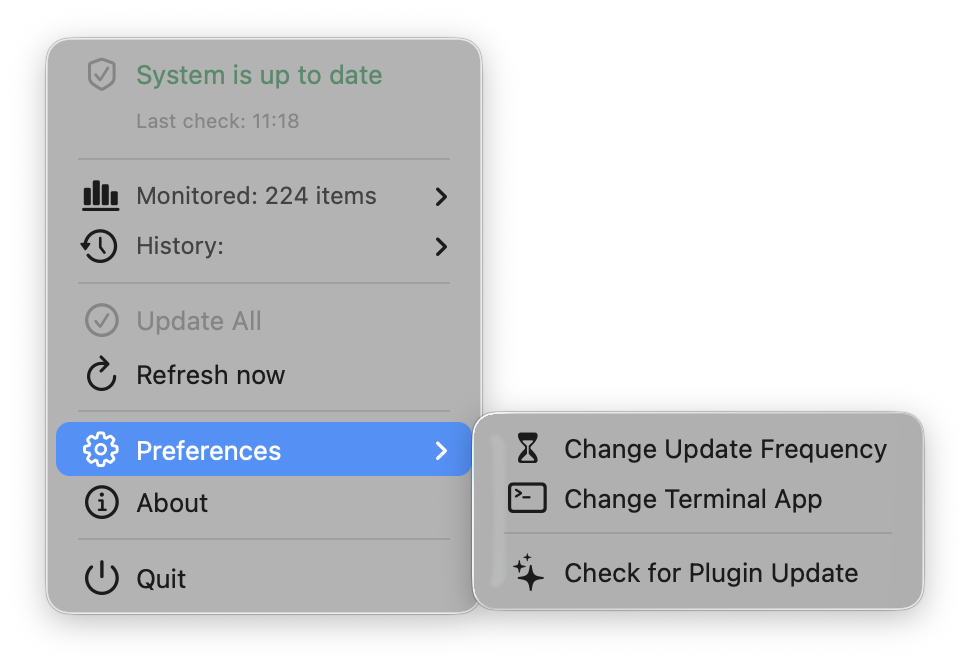
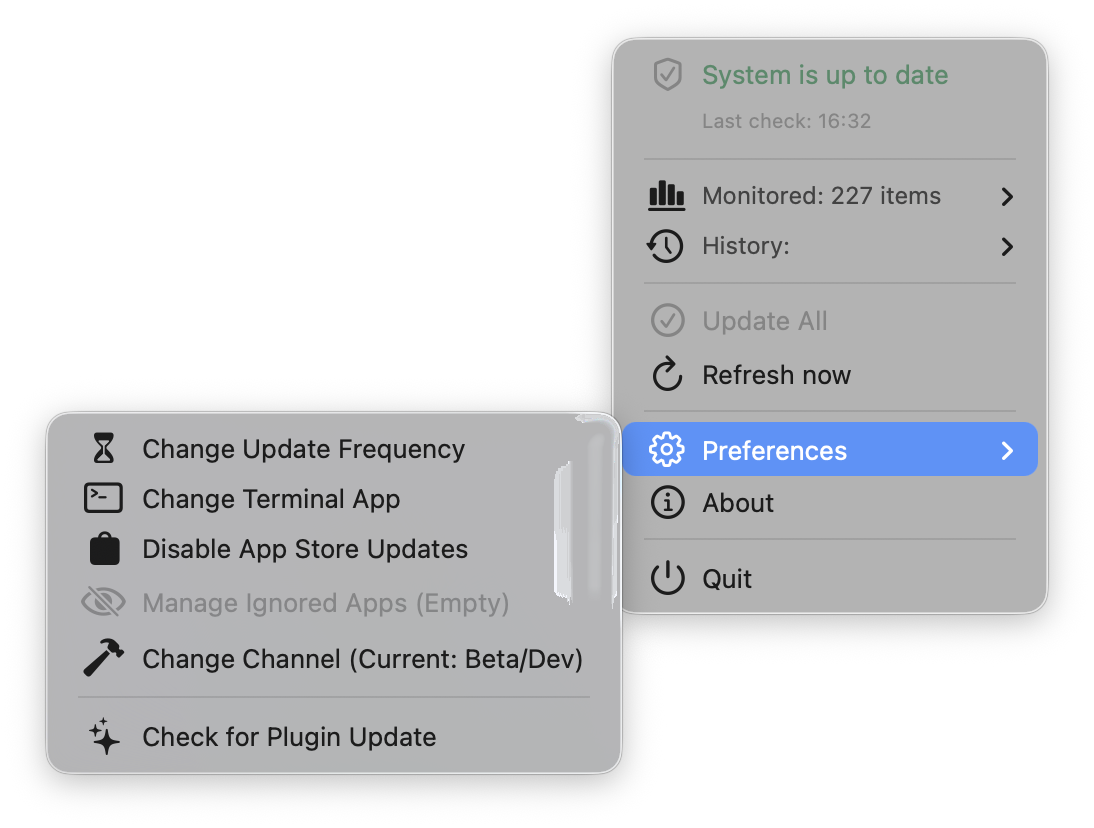
chore: bump version to 1.4.0 and minor documentation updates

diff --git a/README.md b/README.md
@@ -2,7 +2,7 @@
 
 [![License](https://img.shields.io/badge/license-MIT-blue)](LICENSE)
 [![Last Commit](https://img.shields.io/gitea/last-commit/pr-fuzzylogic/mac_software_updater?gitea_url=https%3A%2F%2Fcodeberg.org&label=last%20update&color=blue)](https://codeberg.org/pr-fuzzylogic/mac_software_updater/commits/branch/main)
-[![Version](https://img.shields.io/badge/version-1.3.8-blue)](https://codeberg.org/pr-fuzzylogic/mac_software_updater/releases)
+[![Version](https://img.shields.io/badge/version-1.4.0-blue)](https://codeberg.org/pr-fuzzylogic/mac_software_updater/releases)
 
 ![Platform](https://img.shields.io/badge/macOS-12%2B-blue?logo=apple&logoColor=white)
 ![Zsh](https://img.shields.io/badge/shell-Zsh-blue?logo=gnu-bash&logoColor=white)
@@ -35,6 +35,9 @@ Mac Software Updater is a targeted automation tool designed to bring order to yo
 * **Smart History:** Tracks how many updates you've installed over the last 7 and 30 days.
 * **Apple Silicon Ready:** Works natively on M1/M2/M3 and Intel Macs.
 * **Resilient Updates:** Features a smart failover system that automatically switches to a backup server (Codeberg) if GitHub is unreachable.
+* **Granular Control:** Easily ignore (pin) specific updates directly from the menu if you need to stay on an older version.
+* **Modular Updates:** Optional App Store support. Enable or disable mas updates globally if you prefer to manage Store apps manually.
+
 
 ## ⚙ How It Works
 
@@ -117,9 +120,10 @@ Manage the plugin behavior directly from the menu.
 | Feature | Description |
 | :--- | :--- |
 | **Update Frequency** | Toggle check intervals: `1h`, `2h`, `6h`, `12h`, or `1d`. |
-| **Terminal App** | Choose preferred terminal: `Terminal`, `iTerm2`, `Warp`, or `Alacritty`. |
+| **Terminal App** | Choose preferred terminal: `Terminal`, `iTerm2`, `Warp`, `Alacritty`, or `Ghostty`. |
 | **Self-Update** | Check for updates. The plugin will scan GitHub and Codeberg for its own new versions. |
-
+| **Update Channel** | Switch between `Stable (Main)` and `Beta (Develop)` releases instantly. |
+| **App Store** | Toggle `mas` integration on/off directly from the menu. |
 
 ## 🛠 Quick Start
 
@@ -128,7 +132,7 @@ The fastest way to start is to run this command in your Terminal. It downloads a
 
 **Option A: Standard Install (GitHub)**
 ```bash
-curl -L https://github.com/pr-fuzzylogic/mac_software_updater/releases/download/v1.3.8/Installer.zip -o Installer.zip && unzip -q Installer.zip && cd mac_software_updater && chmod +x setup_mac.sh && ./setup_mac.sh
+curl -L https://github.com/pr-fuzzylogic/mac_software_updater/releases/download/v1.4.0/Installer.zip -o Installer.zip && unzip -q Installer.zip && cd mac_software_updater && chmod +x setup_mac.sh && ./setup_mac.sh
 ```
 
 **Option B: Emergency Mirror (Codeberg)**
@@ -172,7 +176,9 @@ To uninstall:
 
 ## 📝 Notes
 > **Important:** Since this script uses checksums to detect updates, modifying the code (e.g., changing icons) will trigger a "Plugin Update Available" alert. If you customize the script, please go to Preferences → Disable Self-Update to prevent your changes from being overwritten.
+>
 > **Limitation:** Apple-native apps (e.g., iMovie) are often invisible to the mas CLI. While this plugin provides a workaround to monitor these "Ghost Apps," the actual update must be performed manually in the App Store.
+>
 > **Known Issue:** Apps running as iPad/iPhone wrappers on Apple Silicon are invisible to this tool. This is a limitation of the upstream `mas` command-line utility used for App Store interactions.
 
 ## License
